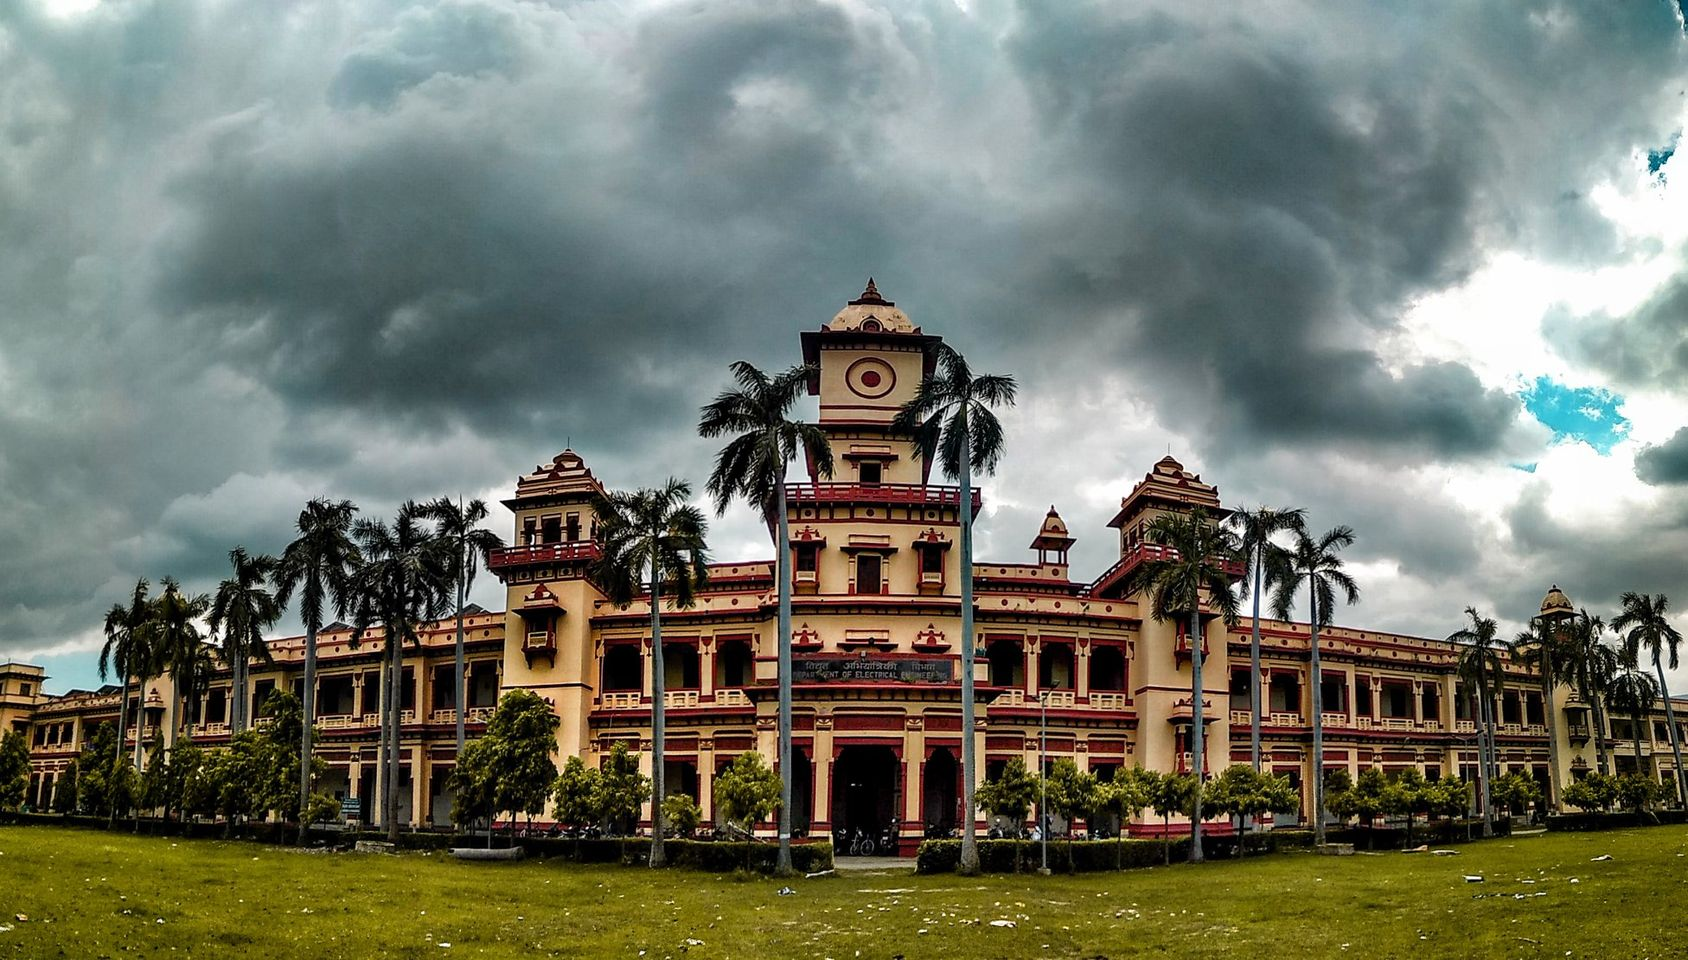
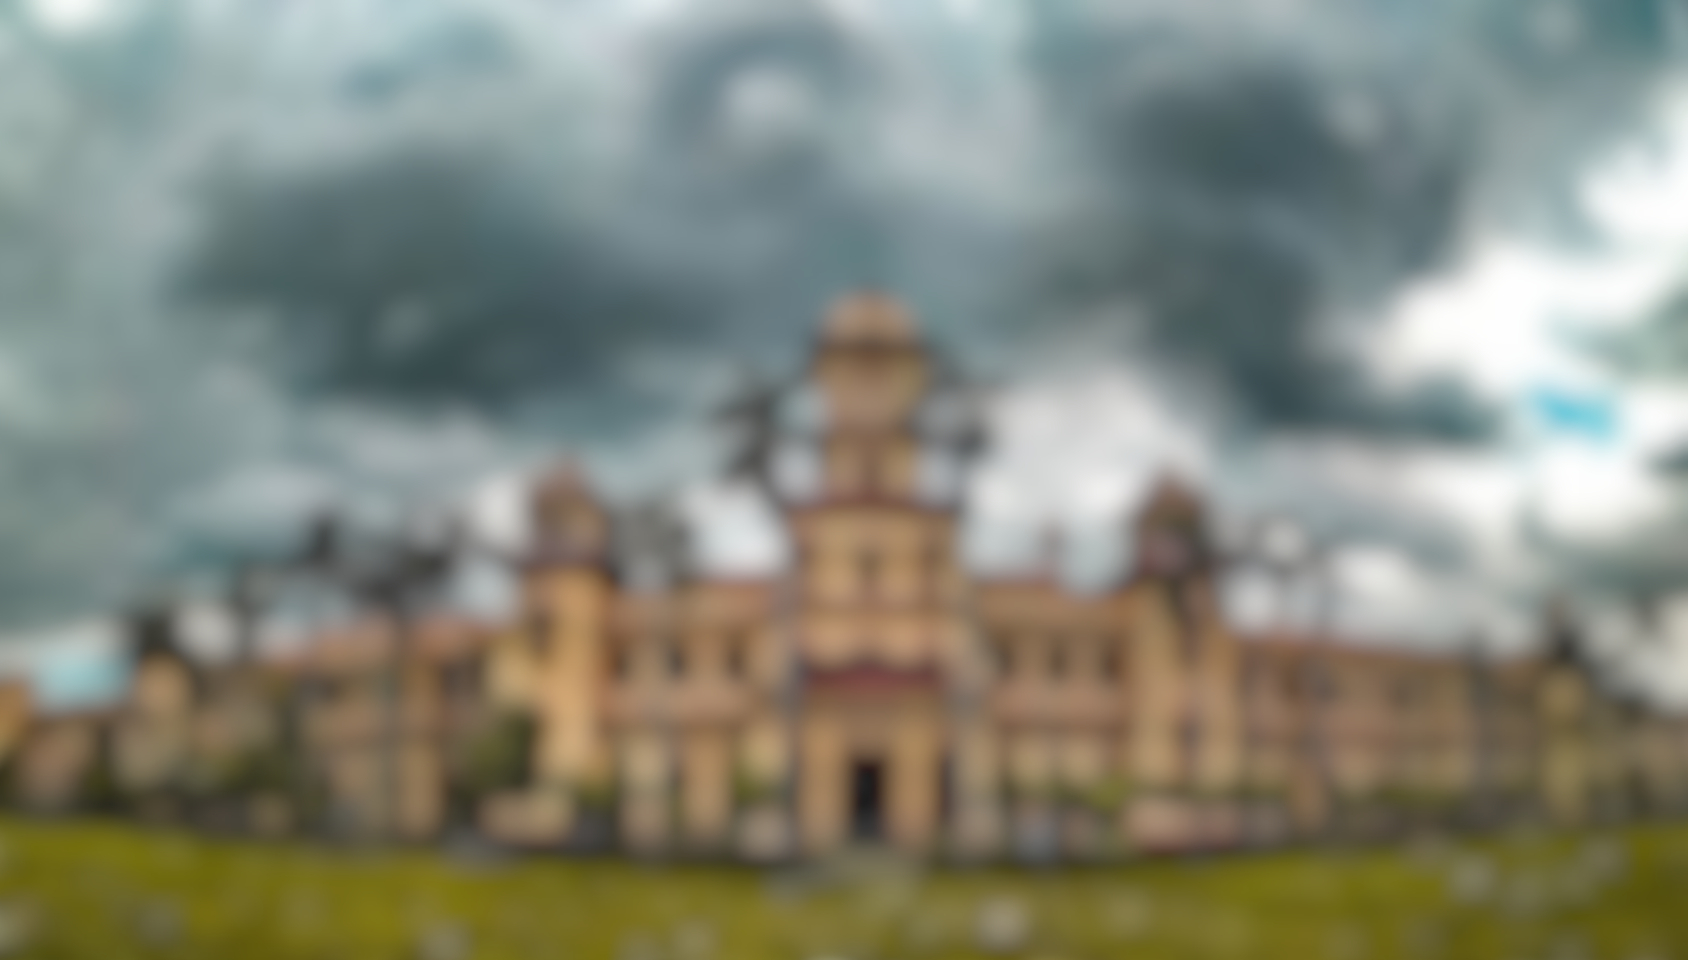
update 2023

diff --git a/index.html b/index.html
@@ -33,24 +33,28 @@
   <!-- Landing content -->
   <section class="c-landing" id="landing">
 
-    <div class="circular--portrait"> <img src="./img/dp.jpg" alt="My profile pic"></div>
+    <div class="circular--portrait"> <img src="./img/dp-2.jpg" alt="My profile pic"></div>
 
-    <h1>Jady</h1>
-    <p>Hi! I am Jaideep Sharma. People call me Jady. <br>I read. I code. I write</p>
+    <div class="landing-content">
+      <h1>Jady</h1>
+      <p>Hi! I am Jaideep Sharma. People call me Jady. <br>I read. I code. I write</p>
 
-    <ul class="c-inline-list">
-      <li><a title class="icon" href="https://www.facebook.com/jadysh/"><i class="fa-brands fa-facebook fa-2x"></i></a>
-      </li>
-      <li><a title class="icon" href="https://www.linkedin.com/in/jaideepsh/"><i
-            class="fa-brands fa-linkedin fa-2x"></i></a></li>
-      <li><a title class="icon" href="https://github.com/camperjett"><i class="fa-brands fa-github fa-2x"></i></a></li>
-      <li><a title class="icon" href="https://twitter.com/camperjett"><i class="fa-brands fa-twitter fa-2x"></i></a>
-      </li>
-      <li><a title class="icon" href="https://www.quora.com/profile/Jaideep-Sharma-33"><i
-            class="fa-brands fa-quora fa-2x"></i></a></li>
-      <li><a title class="icon" href="mailto:jaideep.sharma.cse20@iitbhu.ac.in"><i
-            class="fa-solid fa-envelope fa-2x"></i></a></li>
-    </ul>
+      <ul class="c-inline-list">
+        <li><a title class="icon" href="https://www.facebook.com/jadysh/"><i
+              class="fa-brands fa-facebook fa-2x"></i></a>
+        </li>
+        <li><a title class="icon" href="https://www.linkedin.com/in/jaideepsh/"><i
+              class="fa-brands fa-linkedin fa-2x"></i></a></li>
+        <li><a title class="icon" href="https://github.com/camperjett"><i class="fa-brands fa-github fa-2x"></i></a>
+        </li>
+        <li><a title class="icon" href="https://twitter.com/camperjett"><i class="fa-brands fa-twitter fa-2x"></i></a>
+        </li>
+        <li><a title class="icon" href="https://www.quora.com/profile/Jaideep-Sharma-33"><i
+              class="fa-brands fa-quora fa-2x"></i></a></li>
+        <li><a title class="icon" href="mailto:jaideep.sharma.cse20@iitbhu.ac.in"><i
+              class="fa-solid fa-envelope fa-2x"></i></a></li>
+      </ul>
+    </div>
   </section>
 
   <!-- about -->
@@ -90,11 +94,13 @@
     </section>
 
   </div>
+
   <div class="c-resume" id="resume-header">
     <h1>
       And here is my Resume...
     </h1>
-    <a href="./pdfs/resume.pdf"><i class="fa-solid fa-eye fa-4x"></i></a>
+    <a href="https://drive.google.com/file/d/13GW_wNQ60RpdhBwwjfCQYUbNhb9HtczK/view?usp=sharing"><i
+        class="fa-solid fa-eye fa-4x"></i></a>
   </div>
 </body>
 

diff --git a/main.css b/main.css
@@ -3,6 +3,7 @@
 * {
   margin: 0;
   padding: 0;
+  /* exact dimensions (margin, padding etc included) */
   box-sizing: border-box;
   font-family: 'Roboto', sans-serif;
 }
@@ -20,29 +21,27 @@ a:hover {
   position: fixed;
   top: 3%;
   left: 50%;
-  -webkit-transform: translate(-50%, 0);
   transform: translate(-50%, -50%);
   background-color: #333;
   z-index: 5;
   opacity: 0.4;
   width: 100%;
+
   display: flex;
   flex-direction: row;
   justify-content: space-between;
-  padding: 10px 50px;
   align-items: center;
+
+  padding: 10px 50px;
 }
 
 .navbar--inline a {
   color: #f6f4e6;
   text-decoration: none;
   font-size: 1.2em;
-  /* text-transform: uppercase; */
   font-weight: 500;
   display: inline-block;
-  padding: auto;
   margin: 0px 5px;
-  width: auto;
   opacity: 0.8;
   display: flex;
 }
@@ -104,10 +103,8 @@ a:hover {
 }
 
 .blur {
-
   /* Add the blur effect */
-  filter: blur(8px);
-  -webkit-filter: blur(8px);
+  filter: blur(0.2rem);
 }
 
 .location-label {
@@ -147,16 +144,12 @@ a:hover {
 .circular--portrait img {
   width: 100%;
   height: auto;
-  margin-top: -100px;
-  transform: scale(1.25);
-  -ms-transform: scale(1.25);
-  /* IE 9 */
-  -moz-transform: scale(1.25);
-  /* Firefox */
-  -webkit-transform: scale(1.25);
-  /* Safari and Chrome */
-  -o-transform: scale(1.25);
-  /* Opera */
+  /* margin-top: -100px; */
+  /* transform: scale(1); */
+}
+
+.landing-content {
+  opacity: 0.9;
 }
 
 .c-landing h1 {
@@ -177,9 +170,9 @@ a:hover {
 }
 
 .icon {
-  opacity: .4;
+  opacity: 0.6;
   color: #fff;
-  margin-right: 5px;
+  margin: 5px;
 }
 
 .icon:hover {
@@ -236,10 +229,12 @@ a:hover {
   text-align: center;
   background-image: url("./img/bg-IITBHU.jpg");
   padding: 50px;
+  
   /* Center and scale the image nicely */
   background-position: center;
   background-repeat: no-repeat;
   background-size: cover;
+  background-attachment: fixed;
   display: flex;
   flex-direction: column;
   justify-content: space-around;
